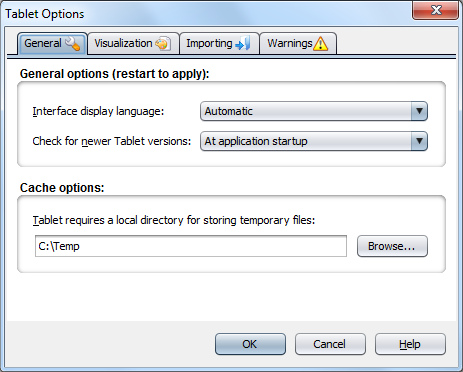
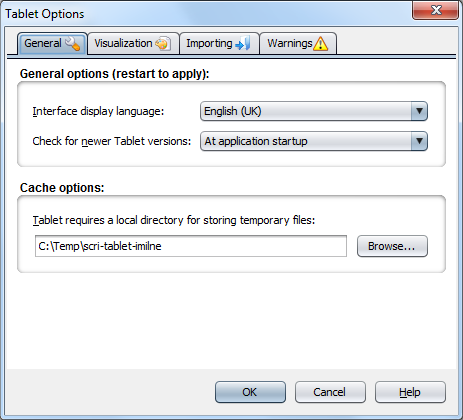
- NEW: Renamed the zoom level preferences variable so that it will correctly reset to a suitable default for all users when they get the new super-zoom version. - NEW: Reinstated the option to enable/disable read caching to disk, along with a newer option to not cache data from BAM files unless desi

Changed region(s): [[0.0, 0.0, 0.9978, 0.7392], [0.0302, 0.8871, 0.9978, 1.0], [0.7559, 0.6505, 0.9676, 0.7392]]

diff --git a/src/tablet/gui/dialog/prefs/FormatsTabNB.java b/src/tablet/gui/dialog/prefs/FormatsTabNB.java
@@ -26,6 +26,8 @@ class FormatsTabNB extends JPanel implements ActionListener
 		RB.setText(checkAmbiguousToN, "gui.dialog.prefs.NBFormatsPanel.checkAmbiguousToN");
 		RB.setText(checkAceQA, "gui.dialog.prefs.NBFormatsPanel.checkAceQA");
 		RB.setText(checkBamValidation, "gui.dialog.prefs.NBFormatsPanel.checkBamValidation");
+		RB.setText(cacheReads, "gui.dialog.prefs.NBFormatsPanel.cacheReads");
+		RB.setText(neverCacheBAM, "gui.dialog.prefs.NBFormatsPanel.neverCacheBAM");
 
 		panel2.setBorder(BorderFactory.createTitledBorder(RB.getString("gui.dialog.prefs.NBFormatsPanel.panel2Title")));
 		RB.setText(stLabel1, "gui.dialog.prefs.NBFormatsPanel.stLabel1");
@@ -36,28 +38,45 @@ class FormatsTabNB extends JPanel implements ActionListener
 		checkAmbiguousToN.setSelected(Prefs.ioAmbiguousToN);
 		checkAceQA.setSelected(Prefs.ioAceProcessQA);
 		checkBamValidation.setSelected(Prefs.ioBamValidationIsLenient);
+		cacheReads.setSelected(Prefs.ioCacheReads);
+		neverCacheBAM.setSelected(Prefs.ioNeverCacheBAM);
+		checkStates();
 
 		bBrowse.addActionListener(this);
+		cacheReads.addActionListener(this);
     }
+
+	private void checkStates()
+	{
+		neverCacheBAM.setEnabled(cacheReads.isSelected());
+	}
 
 	public void applySettings()
 	{
 		Prefs.ioAmbiguousToN = checkAmbiguousToN.isSelected();
 		Prefs.ioAceProcessQA = checkAceQA.isSelected();
 		Prefs.ioBamValidationIsLenient = checkBamValidation.isSelected();
+		Prefs.ioCacheReads = cacheReads.isSelected();
+		Prefs.ioNeverCacheBAM = neverCacheBAM.isSelected();
 
 		Prefs.ioSamtoolsPath = stPath.getText();
 	}
 
 	public void actionPerformed(ActionEvent e)
 	{
-		JFileChooser fc = new JFileChooser();
-		fc.setDialogTitle("");
-		fc.setSelectedFile(new File(stPath.getText()));
-		fc.setFileSelectionMode(JFileChooser.FILES_ONLY);
+		if (e.getSource() == bBrowse)
+		{
+			JFileChooser fc = new JFileChooser();
+			fc.setDialogTitle("");
+			fc.setSelectedFile(new File(stPath.getText()));
+			fc.setFileSelectionMode(JFileChooser.FILES_ONLY);
 
-		if (fc.showOpenDialog(Tablet.winMain) == JFileChooser.APPROVE_OPTION)
-			stPath.setText(fc.getSelectedFile().getPath());
+			if (fc.showOpenDialog(Tablet.winMain) == JFileChooser.APPROVE_OPTION)
+				stPath.setText(fc.getSelectedFile().getPath());
+		}
+
+		else if (e.getSource() == cacheReads)
+			checkStates();
 	}
 
 
@@ -73,6 +92,8 @@ class FormatsTabNB extends JPanel implements ActionListener
         checkAmbiguousToN = new javax.swing.JCheckBox();
         checkAceQA = new javax.swing.JCheckBox();
         checkBamValidation = new javax.swing.JCheckBox();
+        cacheReads = new javax.swing.JCheckBox();
+        neverCacheBAM = new javax.swing.JCheckBox();
         panel2 = new javax.swing.JPanel();
         stLabel1 = new javax.swing.JLabel();
         stPath = new javax.swing.JTextField();
@@ -87,6 +108,10 @@ class FormatsTabNB extends JPanel implements ActionListener
 
         checkBamValidation.setText("Set BAM validation stringency to lenient rather than strict (BAM only)");
 
+        cacheReads.setText("Always cache read data to disk while importing");
+
+        neverCacheBAM.setText("Bypass read disk caching for BAM files");
+
         javax.swing.GroupLayout panel1Layout = new javax.swing.GroupLayout(panel1);
         panel1.setLayout(panel1Layout);
         panel1Layout.setHorizontalGroup(
@@ -96,7 +121,9 @@ class FormatsTabNB extends JPanel implements ActionListener
                 .addGroup(panel1Layout.createParallelGroup(javax.swing.GroupLayout.Alignment.LEADING)
                     .addComponent(checkAmbiguousToN)
                     .addComponent(checkAceQA)
-                    .addComponent(checkBamValidation))
+                    .addComponent(checkBamValidation)
+                    .addComponent(cacheReads)
+                    .addComponent(neverCacheBAM))
                 .addContainerGap(javax.swing.GroupLayout.DEFAULT_SIZE, Short.MAX_VALUE))
         );
         panel1Layout.setVerticalGroup(
@@ -108,11 +135,16 @@ class FormatsTabNB extends JPanel implements ActionListener
                 .addComponent(checkAceQA)
                 .addPreferredGap(javax.swing.LayoutStyle.ComponentPlacement.RELATED)
                 .addComponent(checkBamValidation)
+                .addPreferredGap(javax.swing.LayoutStyle.ComponentPlacement.RELATED)
+                .addComponent(cacheReads)
+                .addPreferredGap(javax.swing.LayoutStyle.ComponentPlacement.RELATED)
+                .addComponent(neverCacheBAM)
                 .addContainerGap(javax.swing.GroupLayout.DEFAULT_SIZE, Short.MAX_VALUE))
         );
 
         panel2.setBorder(javax.swing.BorderFactory.createTitledBorder("Samtools:"));
 
+        stLabel1.setLabelFor(stPath);
         stLabel1.setText("Alternative path to samtools:");
 
         bBrowse.setText("Browse...");
@@ -127,7 +159,7 @@ class FormatsTabNB extends JPanel implements ActionListener
                 .addContainerGap()
                 .addGroup(panel2Layout.createParallelGroup(javax.swing.GroupLayout.Alignment.LEADING)
                     .addGroup(javax.swing.GroupLayout.Alignment.TRAILING, panel2Layout.createSequentialGroup()
-                        .addComponent(stPath, javax.swing.GroupLayout.DEFAULT_SIZE, 290, Short.MAX_VALUE)
+                        .addComponent(stPath)
                         .addPreferredGap(javax.swing.LayoutStyle.ComponentPlacement.RELATED)
                         .addComponent(bBrowse))
                     .addComponent(stLabel1)
@@ -152,11 +184,11 @@ class FormatsTabNB extends JPanel implements ActionListener
         this.setLayout(layout);
         layout.setHorizontalGroup(
             layout.createParallelGroup(javax.swing.GroupLayout.Alignment.LEADING)
-            .addGroup(javax.swing.GroupLayout.Alignment.TRAILING, layout.createSequentialGroup()
+            .addGroup(layout.createSequentialGroup()
                 .addContainerGap()
-                .addGroup(layout.createParallelGroup(javax.swing.GroupLayout.Alignment.TRAILING)
-                    .addComponent(panel2, javax.swing.GroupLayout.Alignment.LEADING, javax.swing.GroupLayout.DEFAULT_SIZE, javax.swing.GroupLayout.DEFAULT_SIZE, Short.MAX_VALUE)
-                    .addComponent(panel1, javax.swing.GroupLayout.Alignment.LEADING, javax.swing.GroupLayout.DEFAULT_SIZE, javax.swing.GroupLayout.DEFAULT_SIZE, Short.MAX_VALUE))
+                .addGroup(layout.createParallelGroup(javax.swing.GroupLayout.Alignment.LEADING)
+                    .addComponent(panel1, javax.swing.GroupLayout.DEFAULT_SIZE, javax.swing.GroupLayout.DEFAULT_SIZE, Short.MAX_VALUE)
+                    .addComponent(panel2, javax.swing.GroupLayout.DEFAULT_SIZE, javax.swing.GroupLayout.DEFAULT_SIZE, Short.MAX_VALUE))
                 .addContainerGap())
         );
         layout.setVerticalGroup(
@@ -172,9 +204,11 @@ class FormatsTabNB extends JPanel implements ActionListener
 
     // Variables declaration - do not modify//GEN-BEGIN:variables
     private javax.swing.JButton bBrowse;
+    private javax.swing.JCheckBox cacheReads;
     private javax.swing.JCheckBox checkAceQA;
     private javax.swing.JCheckBox checkAmbiguousToN;
     private javax.swing.JCheckBox checkBamValidation;
+    private javax.swing.JCheckBox neverCacheBAM;
     private javax.swing.JPanel panel1;
     private javax.swing.JPanel panel2;
     private javax.swing.JLabel stLabel1;

diff --git a/src/tablet/io/AssemblyFileHandler.java b/src/tablet/io/AssemblyFileHandler.java
@@ -41,6 +41,10 @@ public class AssemblyFileHandler extends SimpleJob
 	public Assembly getAssembly()
 		{ return assembly; }
 
+	private void setupCaches()
+	{
+	}
+
 	public void runJob(int jobIndex)
 		throws Exception
 	{
@@ -51,14 +55,18 @@ public class AssemblyFileHandler extends SimpleJob
 		IReadCache readCache = null;
 		ReadSQLCache sqlCache = null;
 
-		if (Prefs.cacheReads)
+		// If it's a BAM file and we don't want read caching for BAM, or we don't
+		// want reach caching full stop, then just use in-memory caching
+		if ((files[0].getType() == BAM && Prefs.ioNeverCacheBAM) || Prefs.ioCacheReads == false)
+			readCache = new ReadMemCache();
+
+		// Otherwise, use a disk cache
+		else
 		{
 			File cache = new File(cacheDir, "Tablet-" + cacheid + ".reads");
 			File index = new File(cacheDir, "Tablet-" + cacheid + ".readsndx");
 			readCache = new ReadFileCache(cache, index);
 		}
-		else
-			readCache = new ReadMemCache();
 
 		sqlCache = new ReadSQLCache(new File(cacheDir, "Tablet-" + cacheid + ".sqlite"));
 		Consensus.prepareCache(new File(cacheDir, "Tablet-" + cacheid + ".refs"));

diff --git a/src/tablet/gui/ribbon/BandAdjust.java b/src/tablet/gui/ribbon/BandAdjust.java
@@ -36,7 +36,7 @@ public class BandAdjust extends JRibbonBand implements ChangeListener
 		this.winMain = winMain;
 
 		// Determine the initial zoom level for the reads canvas
-		int zoom = Prefs.visReadsCanvasZoom;
+		int zoom = Prefs.visReadsZoomLevel;
 		if (zoom < ZOOM_MIN || zoom > ZOOM_MAX)
 			zoom = ZOOM_DEF;
 
@@ -100,7 +100,7 @@ public class BandAdjust extends JRibbonBand implements ChangeListener
 	{
 		if (e.getSource() == zoomSlider)
 		{
-			Prefs.visReadsCanvasZoom = zoomSlider.getValue();
+			Prefs.visReadsZoomLevel = zoomSlider.getValue();
 
 			winMain.getAssemblyPanel().getController().doZoom();
 			winMain.getAssemblyPanel().repaint();
@@ -117,7 +117,7 @@ public class BandAdjust extends JRibbonBand implements ChangeListener
 
 	public static void setZoom(int zoom)
 	{
-		Prefs.visReadsCanvasZoom = zoom;
+		Prefs.visReadsZoomLevel = zoom;
 		zoomSlider.setValue(zoom);
 	}
 }

diff --git a/src/tablet/gui/Prefs.java b/src/tablet/gui/Prefs.java
@@ -115,7 +115,7 @@ public class Prefs extends XMLPreferences
 	public static int visOverviewType = OverviewCanvas.SCALEDDATA;
 
 	// Current zoom level of the reads canvas
-	public static int visReadsCanvasZoom = 7;
+	public static int visReadsZoomLevel = 16;
 	// Current intensity level for the variant highlighting
 	public static int visVariantAlpha = 0;
 
@@ -150,7 +150,8 @@ public class Prefs extends XMLPreferences
 	public static boolean printPads = true;
 
 	// Disk caching options
-	public static boolean cacheReads = true;
+	public static boolean ioCacheReads = true;
+	public static boolean ioNeverCacheBAM = true;
 	public static boolean cacheMappings = true;
 
 	// Bam assembly options

diff --git a/src/tablet/gui/viewer/CigarOverlayer.java b/src/tablet/gui/viewer/CigarOverlayer.java
@@ -50,9 +50,9 @@ public class CigarOverlayer extends AlphaOverlay
 		Stroke oldStroke = g.getStroke();
 
 
-		g.setPaint(currentColor(Prefs.visReadsCanvasZoom));
+		g.setPaint(currentColor(Prefs.visReadsZoomLevel));
 		// Set the outline width based on the zoom level
-		g.setStroke(calculateStroke(Prefs.visReadsCanvasZoom, oldStroke));
+		g.setStroke(calculateStroke(Prefs.visReadsZoomLevel, oldStroke));
 
 		ArrayList<Feature> features = new ArrayList<Feature>();
 

diff --git a/src/tablet/gui/viewer/SnapshotGrabber.java b/src/tablet/gui/viewer/SnapshotGrabber.java
@@ -48,7 +48,7 @@ public class SnapshotGrabber extends Thread
 		int colIndex = rCanvas.contig.getVisualStart() + (int)(rCanvas.pX1 / rCanvas._ntW);
 		int rowIndex = rCanvas.pY1 / rCanvas.ntH;
 
-		Snapshot snapshot = new Snapshot(colIndex, rowIndex, Prefs.visReadsCanvasZoom);
+		Snapshot snapshot = new Snapshot(colIndex, rowIndex, Prefs.visReadsZoomLevel);
 
 		controller.addSnapshot(snapshot);
 	}

diff --git a/src/tablet/gui/viewer/PairOutlinerOverlay.java b/src/tablet/gui/viewer/PairOutlinerOverlay.java
@@ -36,7 +36,7 @@ public class PairOutlinerOverlay implements IOverlayRenderer
 		Stroke oldStroke = g.getStroke();
 
 		// Set the outline width based on the zoom level
-		if (Prefs.visReadsCanvasZoom > 15)
+		if (Prefs.visReadsZoomLevel > 15)
 			g.setStroke(new BasicStroke(2));
 
 		// If the reads are on the row, draw a line connecting them

diff --git a/src/tablet/gui/viewer/CanvasController.java b/src/tablet/gui/viewer/CanvasController.java
@@ -79,7 +79,7 @@ public class CanvasController extends JPanel implements ChangeListener
 
 	private void computePanelSizes()
 	{
-		int zoom = Prefs.visReadsCanvasZoom;
+		int zoom = Prefs.visReadsZoomLevel;
 
 		readsCanvas.setDimensions(zoom, zoom);
 		consensusCanvas.setDimensions();
